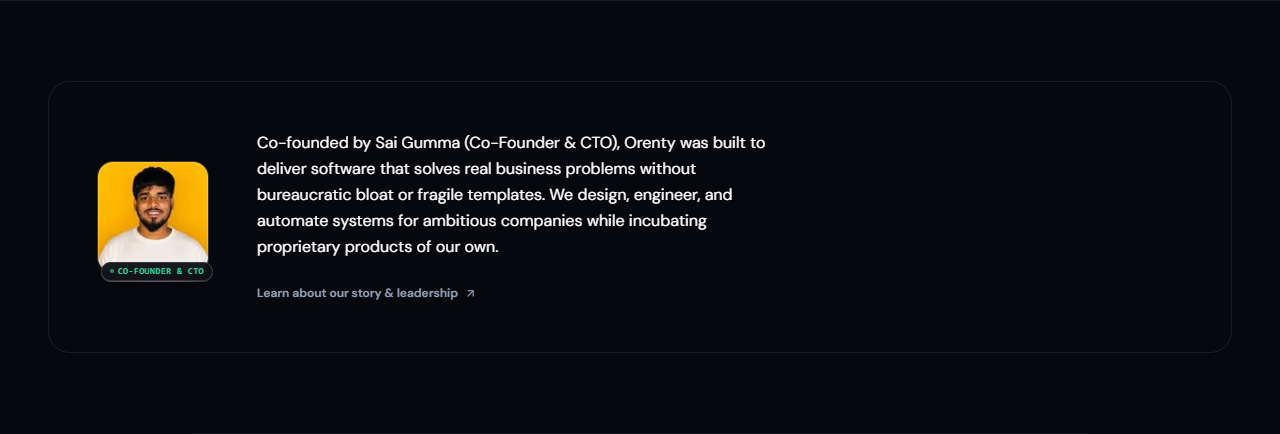
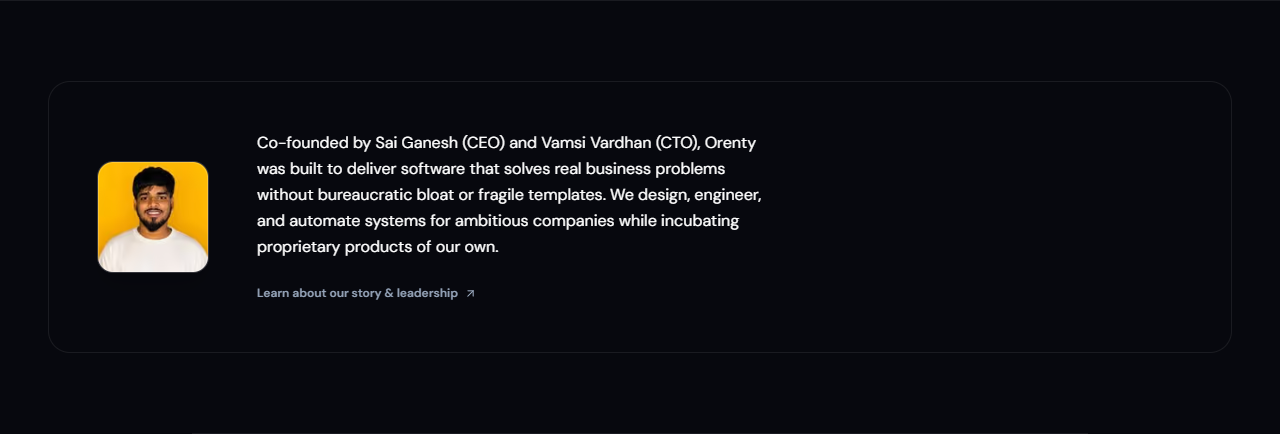
feat(about): set CTO placard to Vamsi Vardhan with condensed bio and no green badge, and add Co-Founder & CEO placeholder placard for Sai Ganesh

Changed region(s): [[0.1875, 0.2995, 0.5938, 0.5392], [0.0625, 0.5991, 0.1875, 0.659]]

diff --git a/app/about/page.tsx b/app/about/page.tsx
@@ -76,7 +76,7 @@ export default function AboutPage() {
         </div>
 
         {/* Leadership Section: Co-Founder & CTO */}
-        <div className="mb-20 rounded-card border border-border bg-surface-2 p-8 md:p-12 relative overflow-hidden">
+        <div className="mb-12 rounded-card border border-border bg-surface-2 p-8 md:p-12 relative overflow-hidden">
           {/* Subtle ambient lighting */}
           <div className="pointer-events-none absolute -top-24 -right-24 h-64 w-64 rounded-full bg-secondary/10 blur-[100px]" />
 
@@ -85,8 +85,8 @@ export default function AboutPage() {
             <div className="relative shrink-0">
               <div className="relative h-36 w-36 md:h-44 md:w-44 rounded-2xl border border-white/15 bg-[#12131A] shadow-2xl overflow-hidden group">
                 <Image
-                  src="/team/co-founder-cto.jpg"
-                  alt="Sai Gumma - Co-Founder & CTO"
+                  src="/team/vamsi-vardhan.jpg"
+                  alt="Vamsi Vardhan - Co-Founder & CTO"
                   fill
                   sizes="(max-width: 768px) 144px, 176px"
                   className="object-cover object-center transition-transform duration-500 ease-out group-hover:scale-105"
@@ -97,10 +97,6 @@ export default function AboutPage() {
                 {/* Soft gradient edge at base */}
                 <div className="absolute inset-x-0 bottom-0 h-8 bg-gradient-to-t from-black/40 to-transparent pointer-events-none" />
               </div>
-              <div className="absolute -bottom-2.5 -right-2 bg-[#0D0F14]/95 backdrop-blur-md border border-white/15 px-3 py-1 rounded-full text-[10px] font-mono text-emerald-400 flex items-center gap-1.5 shadow-xl z-20">
-                <span className="h-1.5 w-1.5 rounded-full bg-emerald-400 animate-pulse" />
-                <span className="font-semibold tracking-wider">CO-FOUNDER & CTO</span>
-              </div>
             </div>
 
             {/* Profile & Biography */}
@@ -109,18 +105,13 @@ export default function AboutPage() {
               <h2 className="h2-section text-text mb-1">
                 Co-Founder & CTO
               </h2>
-              <p className="text-base sm:text-lg font-semibold text-secondary mb-4">
-                Sai Gumma · Co-Founder & CTO, Orenty
+              <p className="text-base sm:text-lg font-semibold text-slate-200 mb-4">
+                Vamsi Vardhan
               </p>
               
-              <div className="space-y-3 text-base text-text-2 leading-relaxed mb-6 max-w-2xl font-normal">
-                <p>
-                  Sai Gumma is the Co-Founder & CTO of Orenty. Driven by the principle that small, disciplined engineering teams with deep architecture skills consistently out-build legacy agencies burdened by bureaucracy, Sai directs all technology strategy, infrastructure, and technical execution.
-                </p>
-                <p>
-                  With expertise spanning distributed web architectures, high-performance Next.js systems, and pragmatic AI automations, Sai leads client engineering solutions while directing the engineering and product incubation of Orenty&apos;s proprietary platforms—including SyncedIn, Fanbase, Job Pilot, and Pujari.ai—and heading the Startup Lab.
-                </p>
-              </div>
+              <p className="text-base text-text-2 leading-relaxed mb-6 max-w-2xl font-normal">
+                Vamsi Vardhan is the Co-Founder & CTO of Orenty, directing core technology strategy, distributed architecture, and AI engineering. With deep expertise across high-performance web systems and automated workflows, he leads technical execution across client software solutions, in-house product incubation (SyncedIn, Fanbase, Job Pilot, Pujari.ai), and the Startup Lab ecosystem.
+              </p>
 
               {/* Technical Pillars */}
               <div className="flex flex-wrap items-center justify-center md:justify-start gap-2 mb-6">
@@ -142,6 +133,87 @@ export default function AboutPage() {
               <div className="flex items-center justify-center md:justify-start gap-4 text-xs font-medium text-text-3">
                 <a
                   href="https://www.linkedin.com/in/vamsi-vardhan09"
+                  target="_blank"
+                  rel="noreferrer"
+                  className="text-secondary hover:text-white transition-colors"
+                >
+                  LinkedIn
+                </a>
+                <span>·</span>
+                <a
+                  href="https://x.com/orenty"
+                  target="_blank"
+                  rel="noreferrer"
+                  className="text-secondary hover:text-white transition-colors"
+                >
+                  Twitter / X
+                </a>
+                <span>·</span>
+                <a
+                  href="mailto:contact@orenty.in"
+                  className="text-secondary hover:text-white transition-colors"
+                >
+                  contact@orenty.in
+                </a>
+              </div>
+            </div>
+          </div>
+        </div>
+
+        {/* Leadership Section: Co-Founder & CEO */}
+        <div className="mb-20 rounded-card border border-border bg-surface-2 p-8 md:p-12 relative overflow-hidden">
+          {/* Subtle ambient lighting */}
+          <div className="pointer-events-none absolute -top-24 -right-24 h-64 w-64 rounded-full bg-primary/10 blur-[100px]" />
+
+          <div className="flex flex-col md:flex-row items-center md:items-start gap-8 lg:gap-12 relative z-10">
+            {/* Framed Co-Founder & CEO Placeholder */}
+            <div className="relative shrink-0">
+              <div className="relative h-36 w-36 md:h-44 md:w-44 rounded-2xl border border-dashed border-white/20 bg-[#12131A] shadow-2xl overflow-hidden group flex flex-col items-center justify-center text-center p-4">
+                <div className="h-14 w-14 rounded-full bg-surface-3 border border-border flex items-center justify-center text-slate-400 mb-2 group-hover:text-primary transition-colors">
+                  <User size={26} />
+                </div>
+                <span className="text-[11px] font-mono tracking-wider uppercase text-slate-400 font-medium">
+                  Photo coming soon
+                </span>
+                {/* Subtle inner glass highlight */}
+                <div className="absolute inset-0 rounded-2xl ring-1 ring-inset ring-white/10 pointer-events-none" />
+              </div>
+            </div>
+
+            {/* Profile & Biography */}
+            <div className="flex-1 text-center md:text-left">
+              <span className="eyebrow-label block mb-2">LEADERSHIP</span>
+              <h2 className="h2-section text-text mb-1">
+                Co-Founder & CEO
+              </h2>
+              <p className="text-base sm:text-lg font-semibold text-slate-200 mb-4">
+                Sai Ganesh
+              </p>
+              
+              <p className="text-base text-text-2 leading-relaxed mb-6 max-w-2xl font-normal">
+                Sai Ganesh is the Co-Founder & CEO of Orenty, spearheading product vision, venture operations, and company growth. Focused on building software that compounds long-term value, he directs commercial partnerships, drives product-market fit across Orenty&apos;s proprietary ventures, and leads founder alignment across the Startup Lab.
+              </p>
+
+              {/* Strategic Pillars */}
+              <div className="flex flex-wrap items-center justify-center md:justify-start gap-2 mb-6">
+                <span className="px-3 py-1 rounded-md text-xs font-mono bg-surface-3 border border-border text-slate-300">
+                  Product Vision
+                </span>
+                <span className="px-3 py-1 rounded-md text-xs font-mono bg-surface-3 border border-border text-slate-300">
+                  Venture Operations
+                </span>
+                <span className="px-3 py-1 rounded-md text-xs font-mono bg-surface-3 border border-border text-slate-300">
+                  Client Partnerships
+                </span>
+                <span className="px-3 py-1 rounded-md text-xs font-mono bg-surface-3 border border-border text-slate-300">
+                  Startup Lab Growth
+                </span>
+              </div>
+
+              {/* Direct Links */}
+              <div className="flex items-center justify-center md:justify-start gap-4 text-xs font-medium text-text-3">
+                <a
+                  href="https://linkedin.com/company/orenty"
                   target="_blank"
                   rel="noreferrer"
                   className="text-secondary hover:text-white transition-colors"

diff --git a/components/AboutStrip.tsx b/components/AboutStrip.tsx
@@ -16,8 +16,8 @@ export default function AboutStrip() {
         <div className="relative shrink-0">
           <div className="relative h-24 w-24 md:h-28 md:w-28 rounded-2xl border border-white/15 bg-[#12131A] shadow-xl overflow-hidden group">
             <Image
-              src="/team/co-founder-cto.jpg"
-              alt="Sai Gumma - Co-Founder & CTO"
+              src="/team/vamsi-vardhan.jpg"
+              alt="Vamsi Vardhan - Co-Founder & CTO"
               fill
               sizes="(max-width: 768px) 96px, 112px"
               className="object-cover object-center group-hover:scale-105 transition-transform duration-300"
@@ -25,16 +25,12 @@ export default function AboutStrip() {
             />
             <div className="absolute inset-0 rounded-2xl ring-1 ring-inset ring-white/20 pointer-events-none" />
           </div>
-          <div className="absolute -bottom-2 -right-1 bg-[#0D0F14]/95 backdrop-blur-md border border-white/15 px-2 py-0.5 rounded-full text-[9px] font-mono text-emerald-400 flex items-center gap-1 shadow-md z-10">
-            <span className="h-1 w-1 rounded-full bg-emerald-400 animate-pulse" />
-            <span className="font-semibold tracking-wider">CO-FOUNDER & CTO</span>
-          </div>
         </div>
 
         {/* Story + Link */}
         <div className="flex-1 text-center md:text-left">
           <p className="text-base text-text leading-relaxed font-normal mb-5 max-w-lg">
-            Co-founded by Sai Gumma (Co-Founder & CTO), Orenty was built to deliver software that solves real business problems without bureaucratic bloat or fragile templates. We design, engineer, and automate systems for ambitious companies while incubating proprietary products of our own.
+            Co-founded by Sai Ganesh (CEO) and Vamsi Vardhan (CTO), Orenty was built to deliver software that solves real business problems without bureaucratic bloat or fragile templates. We design, engineer, and automate systems for ambitious companies while incubating proprietary products of our own.
           </p>
           <Link
             href="/about"

diff --git a/scripts/verify-photo-frame.js b/scripts/verify-photo-frame.js
@@ -13,12 +13,18 @@ const { chromium } = require('playwright-core');
     // Full page
     await page.screenshot({ path: 'screenshots/verify-about-framed-photo-full.png', fullPage: true });
     
-    // Focused screenshot on the Founder & CTO card
-    const founderCard = await page.$('.rounded-card:has-text("Sai Gumma")');
-    if (founderCard) {
-      await founderCard.screenshot({ path: 'screenshots/verify-founder-cto-card.png' });
+    // Focused screenshot on the Co-Founder & CTO card (Vamsi Vardhan)
+    const ctoCard = await page.$('.rounded-card:has-text("Vamsi Vardhan")');
+    if (ctoCard) {
+      await ctoCard.screenshot({ path: 'screenshots/verify-founder-cto-card.png' });
     }
-    console.log('Captured /about desktop');
+    
+    // Focused screenshot on the Co-Founder & CEO card (Sai Ganesh)
+    const ceoCard = await page.$('.rounded-card:has-text("Sai Ganesh")');
+    if (ceoCard) {
+      await ceoCard.screenshot({ path: 'screenshots/verify-founder-ceo-card.png' });
+    }
+    console.log('Captured /about desktop placards');
     await page.close();
   }
 
@@ -37,7 +43,7 @@ const { chromium } = require('playwright-core');
     const page = await browser.newPage({ viewport: { width: 1440, height: 1000 } });
     await page.addInitScript(() => { sessionStorage.setItem('orenty_intro_played', 'true'); });
     await page.goto('http://localhost:3000', { waitUntil: 'networkidle' });
-    const aboutStrip = await page.$('section:has-text("Sai Gumma")');
+    const aboutStrip = await page.$('section:has-text("Vamsi Vardhan")');
     if (aboutStrip) {
       await aboutStrip.scrollIntoViewIfNeeded();
       await page.waitForTimeout(800);
